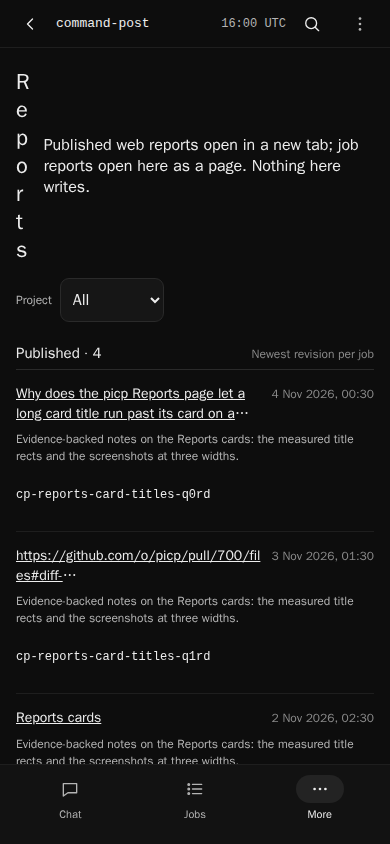
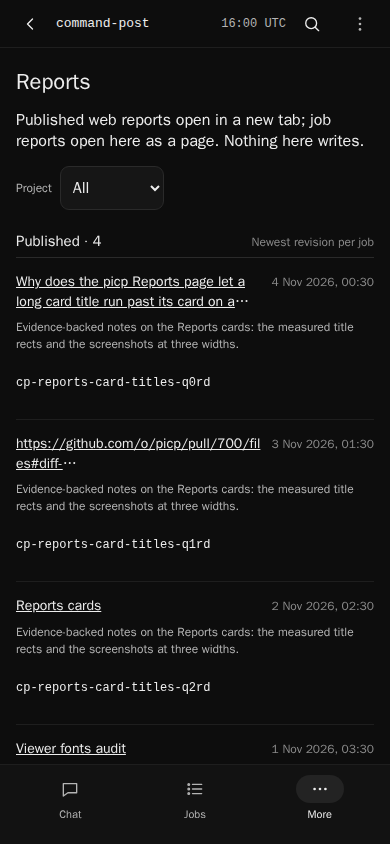
Reports: phone page title on one line; assert Jobs shot overflow
On phone the Reports intro <p> sat in the .jobs-heading grid's auto column at max-content width and squeezed the
"Reports" h1 to one letter per line. The intro now spans 1 / -1 like the project filter; >=900px the heading is a
flex column, so desktop and narrow are byte-identical, and Jobs headings have no direct <p>.

The reports-cards stage measures the page title (height, one-line text width, intro below it) and the test asserts
it at 390 px, plus scrollWidth - innerWidth 0 on the Jobs shot. Test docstring re-wrapped to 120 characters.

diff --git a/tests/e2e/viewer-reports-card-titles.test.ts b/tests/e2e/viewer-reports-card-titles.test.ts
@@ -1,6 +1,6 @@
 /**
- * Reports card titles in real headless Chrome: `tests/fixtures/sessions-chat-v2-browser.ts --stage reports-cards` serves
- * the built app with a 300-character, a bare-URL and a short title in both grids, then measures every card's rects.
+ * Reports card titles in real headless Chrome: `tests/fixtures/sessions-chat-v2-browser.ts --stage reports-cards`
+ * serves the built app with a 300-character, a bare-URL and a short title in both grids, then measures every card.
  */
 import assert from "node:assert/strict";
 import { execFile } from "node:child_process";
@@ -13,7 +13,8 @@ import { REPO_ROOT } from "../harness/index.ts";
 
 const CHROME = "/usr/bin/google-chrome";
 type Card = { text: string; inside: boolean; overflow: number; lines: number; two_lines: boolean; apart: boolean; named: boolean };
-type Shot = { file: string; overflow: number; cards?: Card[]; jobs?: number[] };
+type Heading = { height: number; line_height: number; lines: number; one_line: boolean; fits: boolean; under: boolean };
+type Shot = { file: string; overflow: number; cards?: Card[]; heading?: Heading; jobs?: number[] };
 
 test("reports-card-titles: titles wrap inside their cards in two lines beside the date at 1440, 1000 and 390; Jobs rows hold",
 	{ skip: existsSync(CHROME) ? false : `no Chrome at ${CHROME}`, timeout: 240_000 }, async (t) => {
@@ -33,5 +34,11 @@ test("reports-card-titles: titles wrap inside their cards in two lines beside th
 		assert.deepEqual(off("named"), [], `${name(shot)}: every title link carries its full title as a title attribute`);
 		assert.equal(shot.overflow, 0, `${name(shot)}: scrollWidth - innerWidth is 0`);
 	}
-	assert.deepEqual(shots.at(-1)!.jobs, [40, 36], "Jobs keeps its approved compact rows at 1440: 40px in flight, 36px done");
+	const phone = shots.find((s) => name(s) === "reports-cards-phone.png")!.heading!;
+	assert.equal(phone.one_line, true, `reports-cards-phone.png: the page title is at most 1.5 line-heights (${phone.height}px, ${phone.lines} lines)`);
+	assert.equal(phone.fits, true, "reports-cards-phone.png: the page title is at least as wide as its one-line text");
+	assert.equal(phone.under, true, "reports-cards-phone.png: the intro starts under the page title");
+	const jobs = shots.at(-1)!;
+	assert.equal(jobs.overflow, 0, `${name(jobs)}: scrollWidth - innerWidth is 0`);
+	assert.deepEqual(jobs.jobs, [40, 36], "Jobs keeps its approved compact rows at 1440: 40px in flight, 36px done");
 });

diff --git a/tests/fixtures/sessions-chat-v2-browser.ts b/tests/fixtures/sessions-chat-v2-browser.ts
@@ -1095,9 +1095,14 @@ try {
 			return { text: title.textContent.slice(0, 32), inside: t.left >= c.left - 1 && t.right <= c.right + 1 && t.top >= c.top - 1 && t.bottom <= c.bottom + 1,
 				overflow: Math.round(Math.max(c.left - t.left, t.right - c.right, 0)), lines: Math.round(t.height / lh), two_lines: t.height <= 2 * lh + 1,
 				apart: t.right <= d.left || d.right <= t.left || t.bottom <= d.top || d.bottom <= t.top, named: title.getAttribute("title") === title.textContent }; })`;
+		// The page title against its one-line text width (canvas, so the DOM is never touched) and the intro under it.
+		const heading = `(() => { const h = document.querySelector(".jobs-heading h1"), p = document.querySelector(".jobs-heading > p"), cs = getComputedStyle(h);
+			const ctx = document.createElement("canvas").getContext("2d"); ctx.font = cs.font; const r = h.getBoundingClientRect(), lh = parseFloat(cs.lineHeight);
+			return { height: Math.round(r.height), line_height: Math.round(lh), lines: Math.round(r.height / lh), one_line: r.height <= 1.5 * lh,
+				fits: r.width >= ctx.measureText(h.textContent).width - 0.5, under: p.getBoundingClientRect().top >= r.bottom }; })()`;
 		for (const [name, width, height] of [["desktop", 1440, 1000], ["narrow", 1000, 800], ["phone", 390, 844]] as const) {
 			await capture(`reports-cards-${name}`, "#reports", width, height, "dark", ".reports-grid > article");
-			Object.assign(shots.at(-1)!, { cards: await evaluate(cards) });
+			Object.assign(shots.at(-1)!, { cards: await evaluate(cards), heading: await evaluate(heading) });
 		}
 		await capture("reports-cards-jobs-desktop", "#jobs", 1440, 1000, "dark", ".job-row-done");
 		Object.assign(shots.at(-1)!, { jobs: await evaluate(`[".job-row-flight", ".job-row-done"].map(s => Math.round(document.querySelector(s).getBoundingClientRect().height))`) });

diff --git a/viewer-app/screens/jobs.css b/viewer-app/screens/jobs.css
@@ -2,7 +2,7 @@
 .jobs-screen h1 { font-size: 22px; line-height: 28px; font-weight: 600; }
 .jobs-heading { display: grid; grid-template-columns: 1fr auto; align-items: center; gap: 14px; }
 .jobs-toolbar { display: contents; }
-.jobs-heading .project-filter { grid-column: 1 / -1; }
+.jobs-heading .project-filter, .jobs-heading > p { grid-column: 1 / -1; }
 /* The List | Board | Map toggle (audit P4 #23), shared by all three Jobs views. */
 .board-view { display: flex; padding: 3px; background: var(--surface); border: 1px solid var(--border); border-radius: 10px; flex-shrink: 0; }
 .board-view > * { display: flex; align-items: center; min-height: 44px; padding: 0 10px; border-radius: 7px; text-decoration: none; font-size: 12px; color: var(--muted); }

diff --git a/changelog.d/cp-reports-card-titles.md b/changelog.d/cp-reports-card-titles.md
@@ -1,1 +1,1 @@
-- Reports: card titles in Published and Job reports stay inside their cards at every width. Report cards have their own `report-card*` classes instead of the Jobs table's row classes, so a long question or bare URL wraps, clamps to two lines with an ellipsis (full title in a tooltip), and the date keeps its own column on the heading row. The Jobs page is unchanged. `tests/e2e/viewer-reports-card-titles.test.ts` checks the geometry in headless Chrome.
+- Reports: card titles in Published and Job reports stay inside their cards at every width. Report cards have their own `report-card*` classes instead of the Jobs table's row classes, so a long question or bare URL wraps, clamps to two lines with an ellipsis (full title in a tooltip), and the date keeps its own column on the heading row. On a phone the page title "Reports" is one line again, with the intro under it at full width. The Jobs page is unchanged. `tests/e2e/viewer-reports-card-titles.test.ts` checks the geometry in headless Chrome.

diff --git a/docs/viewer-app.md b/docs/viewer-app.md
@@ -645,7 +645,8 @@ picked job beside the chat at 1440 px, over it at 900 px and full screen at 390 
 title, card and date rects; `tests/e2e/viewer-reports-card-titles.test.ts` runs it and fails unless every title stays
 inside its card, at most two lines, apart from its date, with no sideways scroll and Jobs rows at 40/36 px. Report cards
 own their `report-card*` classes, so the Jobs table's row rules never reach them: a title wraps anywhere, clamps to two
-lines with its full text in `title`, and the date keeps its own column on the heading row.
+lines with its full text in `title`, and the date keeps its own column on the heading row. On a phone the Reports intro
+spans the heading's full width under the page title, which stays one line; the stage asserts both at 390 px.
 
 **Chat Jobs surfaces (M3 slice 2, cp-zm9f).** Only the operator's Full transcript has them
 (`viewer-app/components/WorkspaceSurfaces.tsx`): a `Jobs ⌘J` button on its filter row and Ctrl/Cmd+J, registered
